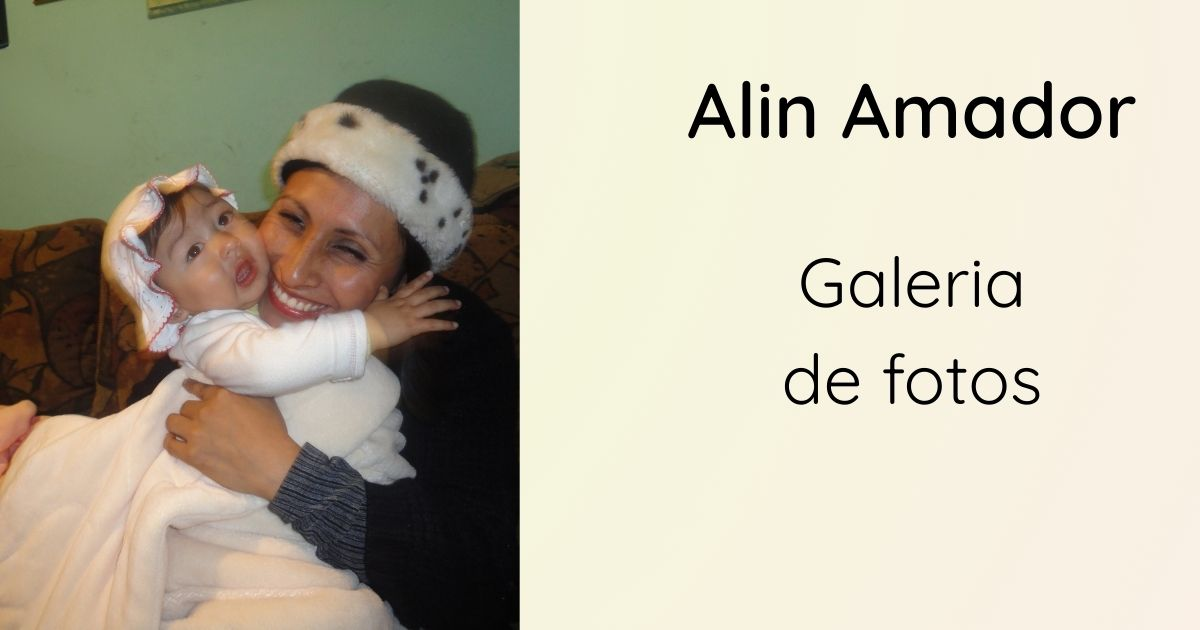
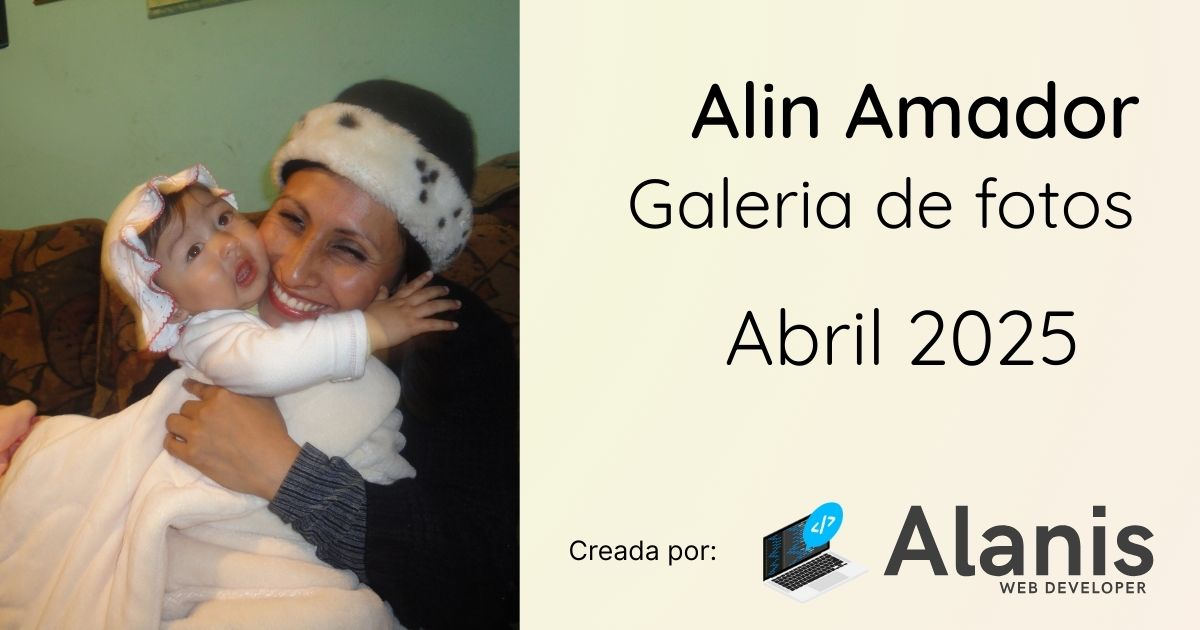
🐛 Small fixes

diff --git a/src/components/Hero.tsx b/src/components/Hero.tsx
@@ -4,10 +4,10 @@ import { HeroProps } from '../types';
 import { AdvancedImage } from '@cloudinary/react';
 import cld from '../config/cloudinary';
 import { fill } from '@cloudinary/url-gen/actions/resize';
-import { brightness } from '@cloudinary/url-gen/actions/adjust';
+import { brightness, saturation } from '@cloudinary/url-gen/actions/adjust';
 import { blur } from '@cloudinary/url-gen/actions/effect';
 
-const Hero = ({ name, subtitle, backgroundImage, blurEffect = false }: HeroProps) => {
+const Hero = ({ name = "Alin", subtitle, backgroundImage, blurEffect = false }: HeroProps) => {
   const [mounted, setMounted] = useState(false);
   
   useEffect(() => {
@@ -21,14 +21,15 @@ const Hero = ({ name, subtitle, backgroundImage, blurEffect = false }: HeroProps
   const cloudinaryImage = !isLocalImage && backgroundImage
     ? cld.image(backgroundImage)
         .resize(fill().width(1920).height(1080))
-        .adjust(brightness().level(10))
+        .adjust(brightness().level(5))
+        .adjust(saturation().level(10))
         .effect(blurEffect ? blur().strength(20) : blur().strength(0))
     : null;
 
   const phrases = [
-    'Momentos especiales',
-    'Recuerdos inolvidables',
-    'Celebrando tu vida'
+    'Celebrando mis XV años',
+    'Recuerdos que perdurarán',
+    'Un viaje por mis momentos favoritos'
   ];
 
   return (
@@ -37,7 +38,7 @@ const Hero = ({ name, subtitle, backgroundImage, blurEffect = false }: HeroProps
       <div className="absolute inset-0 z-0">
         {isLocalImage ? (
           <div 
-            className={`w-full h-full bg-cover bg-center`}
+            className="w-full h-full bg-cover bg-center"
             style={{ backgroundImage: `url(${backgroundImage})` }}
             aria-label="Background image"
           ></div>
@@ -48,19 +49,31 @@ const Hero = ({ name, subtitle, backgroundImage, blurEffect = false }: HeroProps
             alt="Background"
           />
         ) : (
-          <div className="w-full h-full bg-gradient-to-r from-pink-400 via-purple-500 to-indigo-600"></div>
+          <div className="w-full h-full bg-gradient-to-r from-pink-300 via-purple-400 to-indigo-400"></div>
         )}
-        <div className="absolute inset-0 bg-gradient-to-t from-black/80 via-black/50 to-black/30"></div>
+        <div className="absolute inset-0 bg-gradient-to-t from-black/70 via-purple-900/30 to-pink-900/20"></div>
+        
+        {/* Decorative elements */}
+        <div className="absolute inset-0 overflow-hidden">
+          <div className="absolute top-10 left-10 w-24 h-24 rounded-full bg-pink-400/20 animate-pulse"></div>
+          <div className="absolute bottom-20 right-10 w-32 h-32 rounded-full bg-purple-400/20 animate-pulse delay-1000"></div>
+          <div className="absolute top-1/4 right-1/4 w-16 h-16 rounded-full bg-indigo-400/20 animate-pulse delay-700"></div>
+        </div>
       </div>
 
       {/* Hero content with improved visibility */}
       <div className="container mx-auto px-4 z-10 text-center">
         <div className="transform transition-all duration-700 ease-out translate-y-0 opacity-100">
-          <h1 className="text-6xl md:text-8xl font-display mb-6 text-white drop-shadow-lg">
-            {name}
-          </h1>
+          <div className="mb-6 relative">
+            <h2 className="text-2xl md:text-3xl font-light text-pink-200 mb-3">Mis XV Años</h2>
+            <h1 className="text-6xl md:text-8xl font-display mb-4 text-white drop-shadow-lg">
+              {name}
+            </h1>
+            <div className="w-24 h-1 bg-gradient-to-r from-pink-500 to-purple-500 mx-auto rounded-full"></div>
+          </div>
+          
           {mounted && (
-            <div className="text-2xl md:text-3xl font-light mb-8 min-h-16 text-accent drop-shadow-md">
+            <div className="text-2xl md:text-3xl font-light mb-8 min-h-16 text-pink-200 drop-shadow-md">
               <ReactTypingEffect
                 text={phrases}
                 speed={100}
@@ -71,20 +84,25 @@ const Hero = ({ name, subtitle, backgroundImage, blurEffect = false }: HeroProps
               />
             </div>
           )}
+          
           <p className="text-xl md:text-2xl max-w-2xl mx-auto mb-12 text-white/90 font-light drop-shadow-md leading-relaxed">
-            {subtitle || 'Una colección de momentos especiales para celebrar este día tan importante'}
+            {subtitle || 'Un recorrido por los momentos más hermosos que han formado parte de mi vida hasta hoy'}
           </p>
-          <a
-            href="#gallery"
-            className="inline-flex items-center gap-3 px-8 py-4 bg-accent/90 hover:bg-accent text-white rounded-full 
-                     transition-all duration-300 ease-out transform hover:scale-105 hover:shadow-lg
-                     text-lg font-medium tracking-wide"
-          >
-            Ver galería
-            <svg xmlns="http://www.w3.org/2000/svg" className="h-6 w-6 animate-bounce" viewBox="0 0 20 20" fill="currentColor">
-              <path fillRule="evenodd" d="M16.707 10.293a1 1 0 010 1.414l-6 6a1 1 0 01-1.414 0l-6-6a1 1 0 111.414-1.414L9 14.586V3a1 1 0 012 0v11.586l4.293-4.293a1 1 0 011.414 0z" clipRule="evenodd" />
-            </svg>
-          </a>
+          
+          <div className="flex flex-col sm:flex-row gap-4 justify-center">
+            <a
+              href="#gallery"
+              className="inline-flex items-center justify-center gap-3 px-8 py-4 bg-gradient-to-r from-pink-500 to-purple-600 text-white rounded-full 
+                      transition-all duration-300 ease-out transform hover:scale-105 hover:shadow-lg
+                      text-lg font-medium tracking-wide"
+            >
+              Ver galería
+              <svg xmlns="http://www.w3.org/2000/svg" className="h-6 w-6 animate-bounce" viewBox="0 0 20 20" fill="currentColor">
+                <path fillRule="evenodd" d="M16.707 10.293a1 1 0 010 1.414l-6 6a1 1 0 01-1.414 0l-6-6a1 1 0 111.414-1.414L9 14.586V3a1 1 0 012 0v11.586l4.293-4.293a1 1 0 011.414 0z" clipRule="evenodd" />
+              </svg>
+            </a>
+           
+          </div>
         </div>
       </div>
     </section>

diff --git a/src/components/NavBar.tsx b/src/components/NavBar.tsx
@@ -1,7 +1,7 @@
 import { useState, useEffect } from 'react';
 import { NavBarProps } from '../types';
 
-const NavBar = ({ title }: NavBarProps) => {
+const NavBar = ({ title = "Alin XV" }: NavBarProps) => {
   const [isScrolled, setIsScrolled] = useState(false);
   const [isMenuOpen, setIsMenuOpen] = useState(false);
 
@@ -29,28 +29,31 @@ const NavBar = ({ title }: NavBarProps) => {
 
   return (
     <header 
-      className={`fixed top-0 left-0 right-0 z-50 transition-all duration-300 ${
+      className={`fixed top-0 left-0 right-0 z-50 transition-all duration-500 ${
         isScrolled 
-          ? 'bg-purple-800/95 backdrop-blur-md shadow-lg py-3 md:py-4' 
-          : 'bg-purple-700/80 backdrop-blur-sm py-4 md:py-6'
+          ? 'bg-gradient-to-r from-pink-400/90 to-purple-600/90 backdrop-blur-md shadow-lg py-3 md:py-4' 
+          : 'bg-gradient-to-r from-pink-400/70 to-purple-600/70 backdrop-blur-sm py-5 md:py-6'
       }`}
     >
       <div className="container mx-auto px-4 flex justify-between items-center">
-        <h1 className={`text-2xl md:text-3xl font-display font-bold ${isScrolled ? 'text-white' : 'text-white'}`}>
-          {title}
+        <h1 className="text-2xl md:text-3xl font-display font-bold text-white drop-shadow-sm">
+          <span className="relative">
+            {title}
+            <span className="absolute -bottom-1 left-0 w-full h-0.5 bg-gradient-to-r from-pink-200 to-transparent transform scale-x-0 transition-transform duration-300 origin-left group-hover:scale-x-100"></span>
+          </span>
         </h1>
         
         {/* Mobile Menu Button */}
         <button 
           onClick={toggleMenu}
-          className="md:hidden focus:outline-none"
+          className="md:hidden focus:outline-none group"
           aria-label={isMenuOpen ? "Cerrar menú" : "Abrir menú"}
           aria-expanded={isMenuOpen}
         >
-          <div className="w-7 flex flex-col items-end gap-1.5">
-            <span className={`block h-0.5 bg-white transition-all duration-300 ${isMenuOpen ? 'w-7 -rotate-45 translate-y-2' : 'w-7'}`}></span>
-            <span className={`block h-0.5 bg-white transition-all duration-300 ${isMenuOpen ? 'opacity-0' : 'w-5'}`}></span>
-            <span className={`block h-0.5 bg-white transition-all duration-300 ${isMenuOpen ? 'w-7 rotate-45 -translate-y-2' : 'w-6'}`}></span>
+          <div className="w-8 flex flex-col items-end gap-1.5 p-1">
+            <span className={`block h-0.5 bg-white transition-all duration-300 ${isMenuOpen ? 'w-8 -rotate-45 translate-y-2' : 'w-8 group-hover:w-6'}`}></span>
+            <span className={`block h-0.5 bg-white transition-all duration-300 ${isMenuOpen ? 'opacity-0' : 'w-6 group-hover:w-8'}`}></span>
+            <span className={`block h-0.5 bg-white transition-all duration-300 ${isMenuOpen ? 'w-8 rotate-45 -translate-y-2' : 'w-7 group-hover:w-8'}`}></span>
           </div>
         </button>
         
@@ -60,15 +63,16 @@ const NavBar = ({ title }: NavBarProps) => {
             <li>
               <a 
                 href="#gallery" 
-                className="text-lg font-medium text-white hover:text-pink-300 transition-colors border-b-2 border-transparent hover:border-pink-300 pb-1"
+                className="text-lg font-medium text-white hover:text-pink-100 transition-colors border-b-2 border-transparent hover:border-pink-200 pb-1 px-2"
               >
                 Galería
               </a>
             </li>
+            
             <li>
               <a 
                 href="#message" 
-                className="text-lg font-medium text-white hover:text-pink-300 transition-colors border-b-2 border-transparent hover:border-pink-300 pb-1"
+                className="text-lg font-medium text-white hover:text-pink-100 transition-colors border-b-2 border-transparent hover:border-pink-200 pb-1 px-2"
               >
                 Mensaje
               </a>
@@ -77,27 +81,31 @@ const NavBar = ({ title }: NavBarProps) => {
         </nav>
       </div>
       
-      {/* Mobile Navigation */}
+      {/* Mobile Navigation - Now positioned below the navbar */}
       <div 
-        className={`md:hidden absolute w-full bg-purple-800 shadow-lg transition-all duration-300 overflow-hidden ${
-          isMenuOpen ? 'max-h-64 py-4 opacity-100' : 'max-h-0 py-0 opacity-0'
+        className={`md:hidden fixed left-0 right-0 top-[calc(var(--navbar-height,60px))] bg-gradient-to-b from-pink-400/95 to-purple-600/95 shadow-lg transition-all duration-500 overflow-hidden ${
+          isMenuOpen ? 'max-h-80 py-5 opacity-100 z-40' : 'max-h-0 py-0 opacity-0 -z-10'
         }`}
+        style={{
+          '--navbar-height': isScrolled ? '60px' : '72px',
+        } as React.CSSProperties}
       >
-        <nav className="container mx-auto px-4">
-          <ul className="flex flex-col space-y-4">
+        <nav className="container mx-auto px-6">
+          <ul className="flex flex-col space-y-5">
             <li>
               <a 
                 href="#gallery" 
-                className="block py-3 text-lg font-medium text-white hover:text-pink-300 transition-colors"
+                className="block py-3.5 text-xl font-medium text-white hover:text-pink-100 transition-colors border-l-2 border-transparent hover:border-pink-200 pl-3"
                 onClick={handleLinkClick}
               >
                 Galería
               </a>
             </li>
+            
             <li>
               <a 
                 href="#message" 
-                className="block py-3 text-lg font-medium text-white hover:text-pink-300 transition-colors"
+                className="block py-3.5 text-xl font-medium text-white hover:text-pink-100 transition-colors border-l-2 border-transparent hover:border-pink-200 pl-3"
                 onClick={handleLinkClick}
               >
                 Mensaje

diff --git a/src/App.tsx b/src/App.tsx
@@ -39,7 +39,7 @@ function App() {
           </p>
           <button 
             onClick={handleDownloadClick}
-            className="inline-flex items-center gap-3 px-8 py-4 bg-secondary hover:bg-secondary/90 text-white rounded-full 
+            className="inline-flex items-center gap-3 px-8 py-4 bg-gradient-to-r from-pink-400 to-purple-600 hover:from-pink-500 hover:to-purple-700 text-white rounded-full 
                      transition-all duration-300 ease-out transform hover:scale-105 hover:shadow-lg
                      text-lg font-medium tracking-wide"
           >

diff --git a/README.md b/README.md
@@ -1,54 +1,47 @@
-# React + TypeScript + Vite
+# Alin Photos
 
-This template provides a minimal setup to get React working in Vite with HMR and some ESLint rules.
+A photo gallery project for Alin, built with React, Vite, TypeScript, and Tailwind CSS, using Cloudinary for image management.
 
-Currently, two official plugins are available:
+## Setup
 
-- [@vitejs/plugin-react](https://github.com/vitejs/vite-plugin-react/blob/main/packages/plugin-react/README.md) uses [Babel](https://babeljs.io/) for Fast Refresh
-- [@vitejs/plugin-react-swc](https://github.com/vitejs/vite-plugin-react-swc) uses [SWC](https://swc.rs/) for Fast Refresh
+This project uses `pnpm` as the package manager.
 
-## Expanding the ESLint configuration
+1.  **Clone the repository:**
+    ```bash
+    git clone https://github.com/Ealanisln/alin-photos.git
+    cd alin-photos
+    ```
 
-If you are developing a production application, we recommend updating the configuration to enable type-aware lint rules:
+2.  **Install dependencies:**
+    ```bash
+    pnpm install
+    ```
 
-```js
-export default tseslint.config({
-  extends: [
-    // Remove ...tseslint.configs.recommended and replace with this
-    ...tseslint.configs.recommendedTypeChecked,
-    // Alternatively, use this for stricter rules
-    ...tseslint.configs.strictTypeChecked,
-    // Optionally, add this for stylistic rules
-    ...tseslint.configs.stylisticTypeChecked,
-  ],
-  languageOptions: {
-    // other options...
-    parserOptions: {
-      project: ['./tsconfig.node.json', './tsconfig.app.json'],
-      tsconfigRootDir: import.meta.dirname,
-    },
-  },
-})
-```
+3.  **Environment Variables:**
+    Create a `.env` file in the root directory and add any necessary environment variables (e.g., for Cloudinary). Refer to `.env.example` if one exists.
+    *Note: `.env` files are ignored by Git.*
 
-You can also install [eslint-plugin-react-x](https://github.com/Rel1cx/eslint-react/tree/main/packages/plugins/eslint-plugin-react-x) and [eslint-plugin-react-dom](https://github.com/Rel1cx/eslint-react/tree/main/packages/plugins/eslint-plugin-react-dom) for React-specific lint rules:
+## Available Scripts
 
-```js
-// eslint.config.js
-import reactX from 'eslint-plugin-react-x'
-import reactDom from 'eslint-plugin-react-dom'
+In the project directory, you can run:
 
-export default tseslint.config({
-  plugins: {
-    // Add the react-x and react-dom plugins
-    'react-x': reactX,
-    'react-dom': reactDom,
-  },
-  rules: {
-    // other rules...
-    // Enable its recommended typescript rules
-    ...reactX.configs['recommended-typescript'].rules,
-    ...reactDom.configs.recommended.rules,
-  },
-})
-```
+### `pnpm dev`
+
+Runs the app in development mode using Vite.
+Open [http://localhost:5173](http://localhost:5173) (or the port specified by Vite) to view it in the browser.
+
+The page will reload if you make edits.
+You will also see any lint errors in the console.
+
+### `pnpm build`
+
+Builds the app for production to the `dist` folder.
+It correctly bundles React in production mode and optimizes the build for the best performance.
+
+### `pnpm lint`
+
+Runs ESLint to check for code style and potential errors based on the configured rules.
+
+### `pnpm preview`
+
+Serves the production build locally to preview it before deployment.
